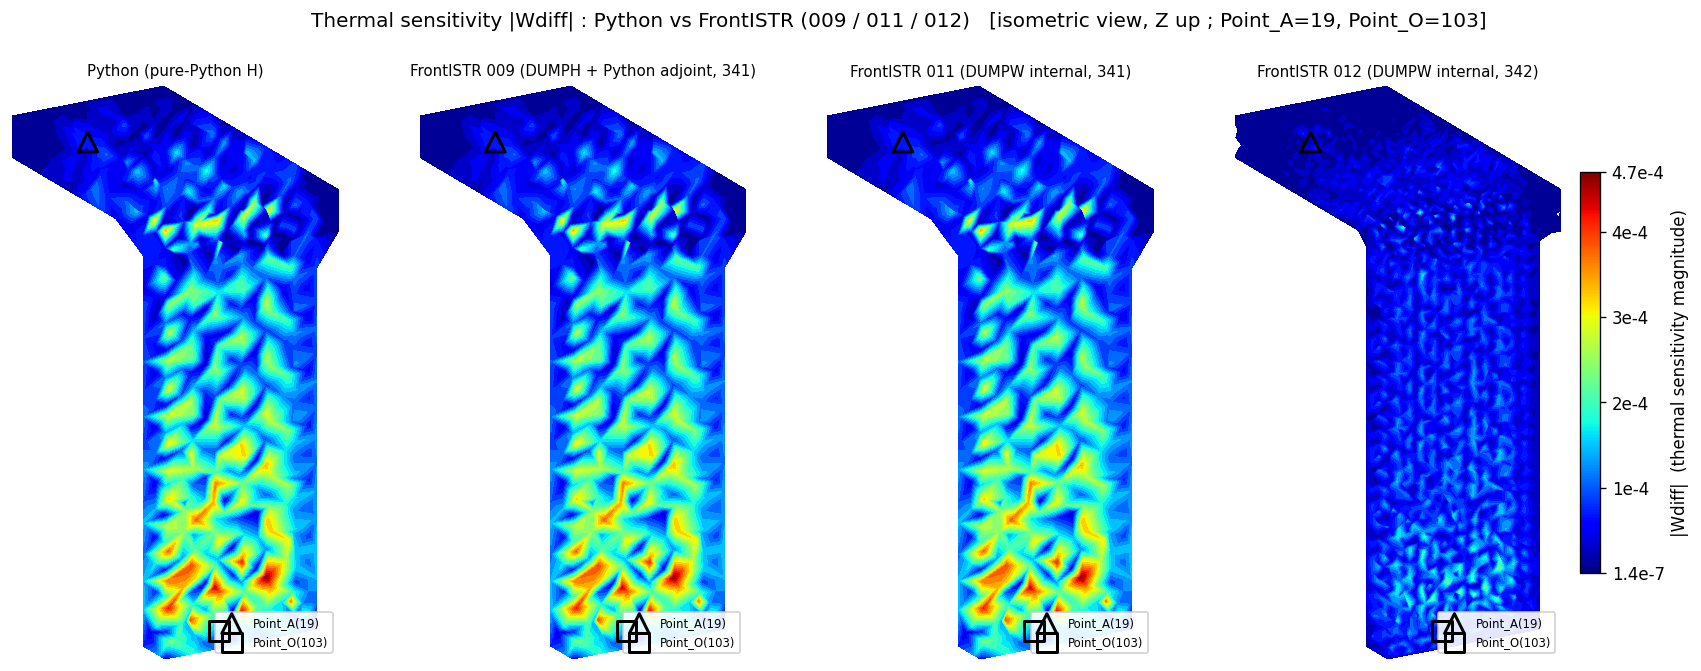
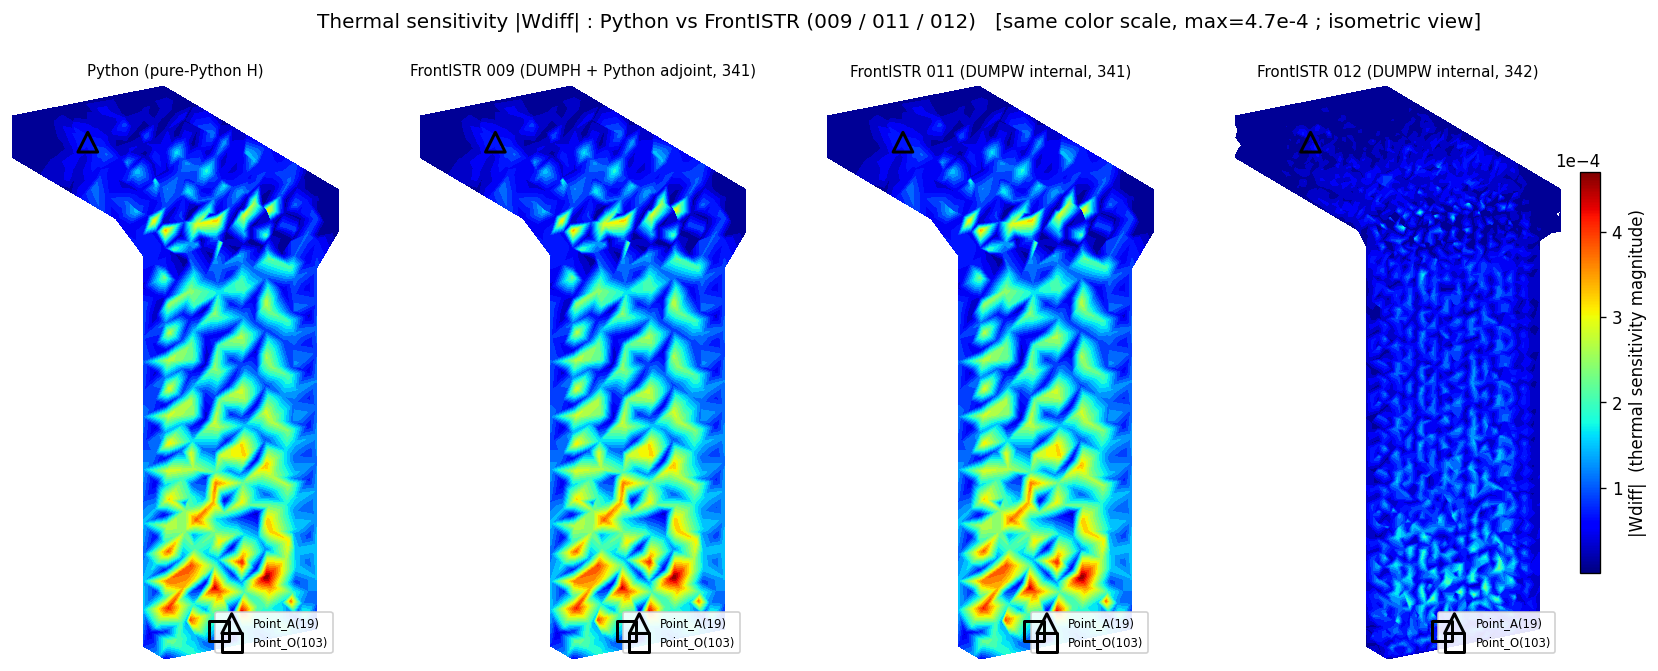
docs/14: explain why 1st/2nd-order results differ; add 342 half-scale contour
- New section 7.2: why 341 and 342 differ (element accuracy; W columns are
  coefficients of different nodal shape-function bases, so quadratic peaks move
  to mid-edge nodes and corner values shrink). Verified per-mesh vs Python 1e-7.
- plot_wdiff_distribution.py: also emit a second figure comparing the 342
  contour at max=4.7e-4 vs half (0.5x) max=2.35e-4, which reveals the same
  hotspot pattern as 341.

diff --git a/20260810_KinvH/post/plot_wdiff_distribution.py b/20260810_KinvH/post/plot_wdiff_distribution.py
@@ -74,64 +74,78 @@ def project(xyz, azim, elev):
     return su, sv, depth
 
 
+def draw_panel(ax, nodes, ids, w, vmax, title):
+    """1パネルに |Wdiff| の塗り分けコンターを描く（vmax は色スケールの上限）。"""
+    cmap = cm.get_cmap('jet')
+    norm = Normalize(vmin=VMIN, vmax=vmax)
+    levels = np.linspace(VMIN, vmax, 25)
+    xyz = np.array([nodes[n] for n in ids])
+    mag = np.array([np.linalg.norm(w[n]) for n in ids])
+    su, sv, depth = project(xyz, AZIM, ELEV)
+    # 投影した点でドロネー三角形分割 -> 塗り分けコンター。T字の凹みを橋渡しする
+    # 細長い三角形は辺が長いのでマスクして除く。
+    tri = mtri.Triangulation(su, sv)
+    t = tri.triangles
+    d01 = np.hypot(su[t[:, 0]] - su[t[:, 1]], sv[t[:, 0]] - sv[t[:, 1]])
+    d12 = np.hypot(su[t[:, 1]] - su[t[:, 2]], sv[t[:, 1]] - sv[t[:, 2]])
+    d20 = np.hypot(su[t[:, 2]] - su[t[:, 0]], sv[t[:, 2]] - sv[t[:, 0]])
+    maxedge = np.maximum(np.maximum(d01, d12), d20)
+    tri.set_mask(maxedge > 2.5 * np.median(maxedge))
+    ax.tricontourf(tri, mag, levels=levels, cmap=cmap, norm=norm, extend='max')
+    for nid, mk in [(POINT_A, '^'), (POINT_O, 's')]:
+        if nid in nodes:
+            pu, pv, _ = project(np.array([nodes[nid]]), AZIM, ELEV)
+            ax.scatter(pu, pv, facecolors='none', edgecolors='k', marker=mk,
+                       s=140, linewidths=1.8, zorder=6,
+                       label=('Point_A(19)' if mk == '^' else 'Point_O(103)'))
+    ax.set_title(title, fontsize=9)
+    ax.set_aspect('equal'); ax.axis('off')
+    ax.legend(loc='lower right', fontsize=7, framealpha=0.9)
+    return norm, cmap
+
+
+def add_colorbar(fig, axes, norm, cmap, vmax):
+    sm = cm.ScalarMappable(norm=norm, cmap=cmap); sm.set_array([])
+    cb = fig.colorbar(sm, ax=axes, shrink=0.7, pad=0.01)
+    cb.set_label('|Wdiff|  (thermal sensitivity magnitude)')
+    cb.formatter.set_powerlimits((0, 0)); cb.update_ticks()
+
+
 def main():
     mesh341 = os.path.join(ROOT, 'model/011_Tji_DUMPW/FistrModel.msh')
     mesh342 = os.path.join(ROOT, 'model/012_Tji_DUMPW_342/FistrModel.msh')
     nodes341, ids341 = read_msh_nodes(mesh341)
     nodes342, ids342 = read_msh_nodes(mesh342)
+    w_py = wdiff_from_npy(os.path.join(ROOT, 'model/008_Tji_compare/Wdiff_python_tji.npy'), ids341)
+    w009 = wdiff_from_npy(os.path.join(ROOT, 'model/009_Tji_H_direct/Wdiff_fistr_tji.npy'), ids341)
+    w011 = wdiff_from_txt(os.path.join(ROOT, 'model/011_Tji_DUMPW/Wdiff_fistr.txt'))
+    w012 = wdiff_from_txt(os.path.join(ROOT, 'model/012_Tji_DUMPW_342/Wdiff_fistr.txt'))
 
-    panels = [
-        ('Python (pure-Python H)', nodes341, ids341,
-         wdiff_from_npy(os.path.join(ROOT, 'model/008_Tji_compare/Wdiff_python_tji.npy'), ids341), 26),
-        ('FrontISTR 009 (DUMPH + Python adjoint, 341)', nodes341, ids341,
-         wdiff_from_npy(os.path.join(ROOT, 'model/009_Tji_H_direct/Wdiff_fistr_tji.npy'), ids341), 26),
-        ('FrontISTR 011 (DUMPW internal, 341)', nodes341, ids341,
-         wdiff_from_txt(os.path.join(ROOT, 'model/011_Tji_DUMPW/Wdiff_fistr.txt')), 26),
-        ('FrontISTR 012 (DUMPW internal, 342)', nodes342, ids342,
-         wdiff_from_txt(os.path.join(ROOT, "model/012_Tji_DUMPW_342/Wdiff_fistr.txt")), 16),
-    ]
-
-    norm = Normalize(vmin=VMIN, vmax=VMAX)
-    cmap = cm.get_cmap('jet')
-    levels = np.linspace(VMIN, VMAX, 25)
-
+    # --- 図1: Python / 009 / 011 / 012 を同じ色スケール(VMAX)で ---
+    panels = [('Python (pure-Python H)', nodes341, ids341, w_py),
+              ('FrontISTR 009 (DUMPH + Python adjoint, 341)', nodes341, ids341, w009),
+              ('FrontISTR 011 (DUMPW internal, 341)', nodes341, ids341, w011),
+              ('FrontISTR 012 (DUMPW internal, 342)', nodes342, ids342, w012)]
     fig, axes = plt.subplots(1, 4, figsize=(20, 6.2))
-    for ax, (title, nodes, ids, w, msize) in zip(axes, panels):
-        xyz = np.array([nodes[n] for n in ids])
-        mag = np.array([np.linalg.norm(w[n]) for n in ids])
-        su, sv, depth = project(xyz, AZIM, ELEV)
-
-        # 投影した点でドロネー三角形分割し、塗り分けコンター(tricontourf)にする。
-        # T字形の凹み(くびれ)を橋渡しする細長い三角形は、辺が長いのでマスクして除く。
-        tri = mtri.Triangulation(su, sv)
-        t = tri.triangles
-        d01 = np.hypot(su[t[:, 0]] - su[t[:, 1]], sv[t[:, 0]] - sv[t[:, 1]])
-        d12 = np.hypot(su[t[:, 1]] - su[t[:, 2]], sv[t[:, 1]] - sv[t[:, 2]])
-        d20 = np.hypot(su[t[:, 2]] - su[t[:, 0]], sv[t[:, 2]] - sv[t[:, 0]])
-        maxedge = np.maximum(np.maximum(d01, d12), d20)
-        tri.set_mask(maxedge > 2.5 * np.median(maxedge))
-
-        ax.tricontourf(tri, mag, levels=levels, cmap=cmap, norm=norm, extend='max')
-        # Point_A / Point_O を印
-        for nid, mk, lab in [(POINT_A, '^', 'Point_A(19)'), (POINT_O, 's', 'Point_O(103)')]:
-            if nid in nodes:
-                pu, pv, _ = project(np.array([nodes[nid]]), AZIM, ELEV)
-                ax.scatter(pu, pv, facecolors='none', edgecolors='k', marker=mk,
-                           s=140, linewidths=1.8, zorder=6, label=lab)
-        ax.set_title(title, fontsize=9)
-        ax.set_aspect('equal'); ax.axis('off')
-        ax.legend(loc='lower right', fontsize=7, framealpha=0.9)
-
-    sm = cm.ScalarMappable(norm=norm, cmap=cmap); sm.set_array([])
-    cb = fig.colorbar(sm, ax=axes, shrink=0.7, pad=0.01,
-                      ticks=[VMIN, 1e-4, 2e-4, 3e-4, 4e-4, VMAX])
-    cb.set_label('|Wdiff|  (thermal sensitivity magnitude)')
-    cb.ax.set_yticklabels(['1.4e-7', '1e-4', '2e-4', '3e-4', '4e-4', '4.7e-4'])
+    for ax, (title, nodes, ids, w) in zip(axes, panels):
+        norm, cmap = draw_panel(ax, nodes, ids, w, VMAX, title)
+    add_colorbar(fig, axes, norm, cmap, VMAX)
     fig.suptitle('Thermal sensitivity |Wdiff| : Python vs FrontISTR (009 / 011 / 012)   '
-                 '[isometric view, Z up ; Point_A=19, Point_O=103]', fontsize=12)
-    out = os.path.join(ROOT, 'docs/img/dumpw_wdiff_python_009_011_012.png')
-    fig.savefig(out, dpi=120, bbox_inches='tight')
-    print('saved', out)
+                 '[same color scale, max=4.7e-4 ; isometric view]', fontsize=12)
+    out1 = os.path.join(ROOT, 'docs/img/dumpw_wdiff_python_009_011_012.png')
+    fig.savefig(out1, dpi=120, bbox_inches='tight'); print('saved', out1)
+
+    # --- 図2: 342だけ、色スケール上限を 4.7e-4（左）と その0.5倍=2.35e-4（右）で比較 ---
+    fig2, axes2 = plt.subplots(1, 2, figsize=(11, 6.2))
+    n1, c1 = draw_panel(axes2[0], nodes342, ids342, w012, VMAX,
+                        'FrontISTR 012 (342)  contour max = 4.7e-4  (same as fig.1)')
+    add_colorbar(fig2, axes2[0], n1, c1, VMAX)
+    n2, c2 = draw_panel(axes2[1], nodes342, ids342, w012, 0.5 * VMAX,
+                        'FrontISTR 012 (342)  contour max = 2.35e-4  (0.5x)')
+    add_colorbar(fig2, axes2[1], n2, c2, 0.5 * VMAX)
+    fig2.suptitle('2nd-order (342): contour max 4.7e-4 vs half (0.5x) 2.35e-4', fontsize=12)
+    out2 = os.path.join(ROOT, 'docs/img/dumpw_wdiff_342_halfscale.png')
+    fig2.savefig(out2, dpi=120, bbox_inches='tight'); print('saved', out2)
 
 
 if __name__ == '__main__':

diff --git a/20260810_KinvH/docs/14_手順_1次2次要素のW出力とvtk比較.md b/20260810_KinvH/docs/14_手順_1次2次要素のW出力とvtk比較.md
@@ -350,13 +350,61 @@ python3 post/plot_wdiff_distribution.py
 # -> docs/img/dumpw_wdiff_python_009_011_012.png
 ```
 
-**なぜ右端（342）は左3枚より青い（値が小さく見える）のか**。同じ色スケールで見ると、342の
-節点ごとの $|W_{\text{diff}}|$ は341より小さい（341は最大 `4.7e-4`／342は最大 `2.3e-4`、ピークは
-中間節点側）。これは**バグではなく、$W_{\text{diff}}$ の各列が「その節点の形状関数に単位温度を
-与えたときの応答」だから**である。二次要素では温度の基底が二次の形状関数（角節点と中間節点で
-別々）になるので、「1節点あたりの単位温度」という摂動の中身が一次要素とは違い、節点ごとの重み
-（＝ $W_{\text{diff}}$ の値）も別の分布になる。連続的な感度の**場**としては一致していることは
-第6章（相対差 `1e-7`）で確認済みで、節点ごとの数値が基底の違いで変わって見えている、ということ。
+右端（342）が左3枚より青い（値が小さく見える）のは、バグではなく一次・二次の離散化の違いに
+よるもの。理由は次の **7.2** で詳しく説明する。
+
+### 7.2 なぜ一次要素と二次要素で結果が違うのか
+
+図を見ると左3枚（341）と右端（342）で分布が違う。これは**DUMPWのバグではない**
+（第6章のとおり、各メッシュで「ダンプした $K$・$H$ からPythonで解き直した $W$」と相対差 `1e-7`
+で一致している＝どちらも自分の $K$・$H$ に対しては正しい）。違いの理由は大きく2つある。
+
+#### 理由1：要素の精度が違う（一次は「硬い」）
+
+- **一次四面体（341）** は要素内でひずみが一定（定ひずみ要素）。曲げや応力の勾配を表すのが
+  苦手で、**実際より硬めに出る**傾向がある。正確に解くには細かいメッシュが要る。
+- **二次四面体（342）** は要素内でひずみが直線的に変化でき、曲げ・勾配を1要素でよく表せる。
+  **同じメッシュなら二次のほうが真の連続解に近い。**
+
+同じ形状・同じ要素数でも、一次と二次では計算される変位・感度が（真の解への近さの点で）違う。
+メッシュを細かくしていけば両者は同じ答えに収束する。
+
+#### 理由2：$W$ の「1節点あたりの値」が別の基底の係数だから（見た目の主因）
+
+図で342が青く見える一番の理由はこちら。
+
+- $W$ の第 $j$ 列は「**節点 $j$ に単位温度を与えたときの応答**」である。
+- 「節点 $j$ に単位温度」とは、実際には**その節点の形状関数 $N_j$ の形の温度分布**を与えること。
+- 一次の角節点の $N_j$（線形の三角屋根）と、二次の角節点・中間節点の $N_j$（二次のバンプ。角節点の
+  $N_j$ は近傍でマイナスにもなる）は**まったく別の関数**である。したがって「1節点に単位温度」という
+  摂動の中身が一次と二次で違い、節点ごとの $W$ の値も別の分布になる。
+- とくに**二次要素の等価熱荷重は中間節点に集中し、角節点は小さく（時に負に）なる**という性質が
+  あるため、342では**ピークが中間節点側に移り、角節点の値は小さく**なる。
+
+実測（$|W_{\text{diff}}|$ の大きさ）：
+
+| | 最大 | 平均 | 備考 |
+|---|---|---|---|
+| 341 | `4.7e-4` | `1.1e-4` | 角節点にホットスポット |
+| 342 | `2.3e-4` | `4.6e-5` | ピークは中間節点（角節点だけなら最大 `9.3e-5`） |
+
+同じ色スケールだと342が青く見えるが、これは値が「間違って小さい」のではなく、**節点値の意味
+（基底）が違うので分布が変わって見えている**ということである。
+
+念のため、342の色スケール上限を図1と同じ `4.7e-4`（左）と、その**0.5倍の `2.35e-4`**（右）に
+した比較が次の図。上限を342自身のピークに合わせて半分にすると、342も341と**同じ場所
+（柱の下部、Point_A/O近く）にホットスポットが出る**ことがはっきり見える＝分布の形は一次と
+共通で、絶対値のスケールと基底が違うだけ、ということ。
+
+![342を色スケール4.7e-4と0.5倍(2.35e-4)で比較](img/dumpw_wdiff_342_halfscale.png)
+
+#### まとめ
+
+- どちらも同じ物理を解いていて、**各メッシュ内では正しい**（Python照合で確認済み）。
+- 違いは「一次は硬めで精度が低い／二次は精度が高い」＋「$W$ の節点値が別の形状関数の係数なので
+  直接は比較できない」の2点。
+- **メッシュに依らない量**（例：ある滑らかな温度場に対する Point_A − Point_O の実際の相対変位）で
+  比べれば、一次と二次は近づき、メッシュを細かくすれば一致する。
 
 ---
 
